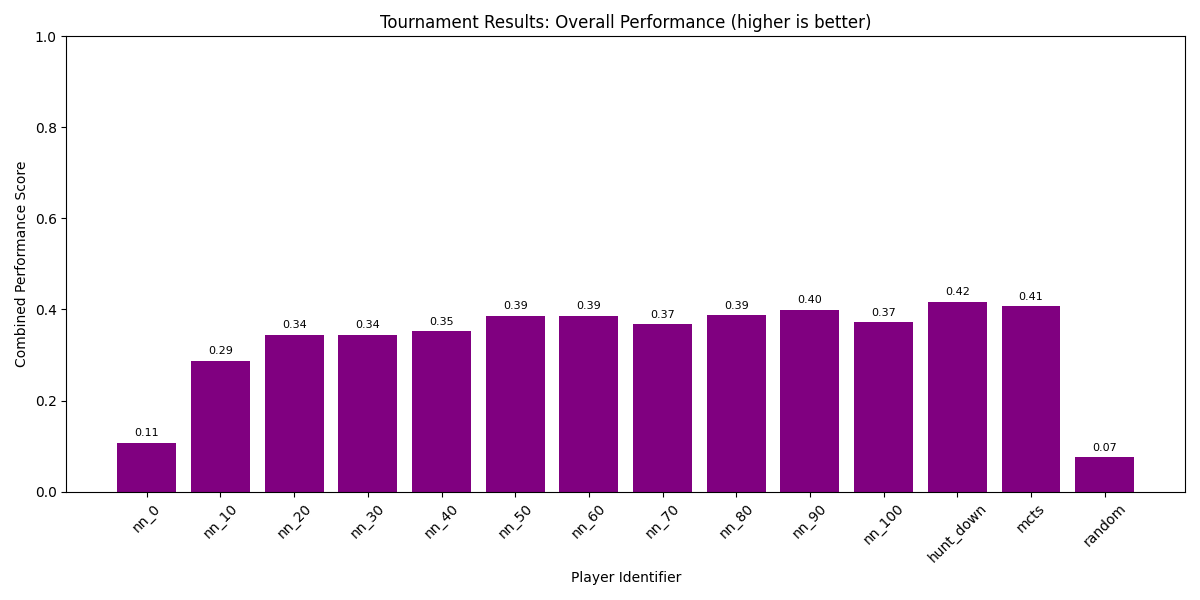
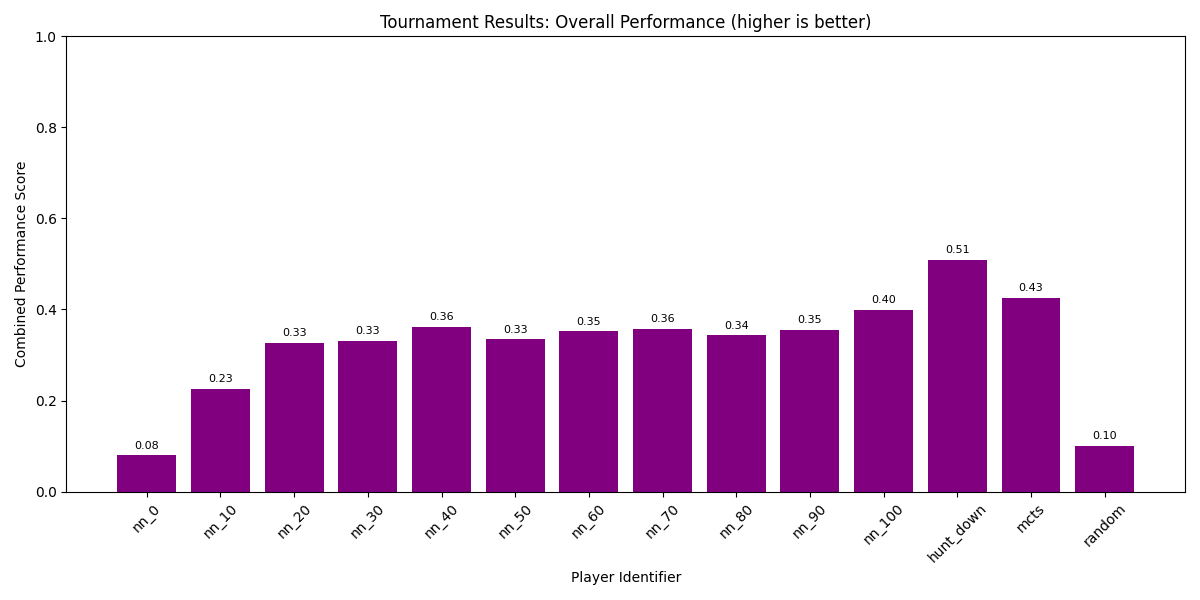
better better torunament

diff --git a/tournament.py b/tournament.py
@@ -198,18 +198,66 @@ class Tournament:
         last_hit_move = None  # The move number of the last hit
         moves_between_hits_list = []  # List to store the number of moves between consecutive hits
         
-        # For entropy calculation
-        shots_made = []  # Track all shots at the end of the game
-        start_shots = []  # Track the first 10 shots
+        # For entropy calculation of action distributions
+        start_distributions = []  # Track action distributions at the start of the game
+        all_distributions = []  # Track all action distributions during the game
         
         while not game_manager.is_terminal(current_state):
             total_moves += 1
-            move = search_agent.strategy.find_move(current_state, topp=True)
             
-            # Track shots for entropy calculation
-            shots_made.append(move)
-            if total_moves <= 10:  # Track first 10 shots for start entropy
-                start_shots.append(move)
+            # Make the move and get the probability distribution if available
+            if hasattr(search_agent.strategy, "find_move"):
+                # Check if this is a neural network strategy by inspecting the method signature
+                try:
+                    # For neural network agents that return both move and probabilities
+                    move_result = search_agent.strategy.find_move(current_state, topp=True)
+                    
+                    if isinstance(move_result, tuple) and len(move_result) == 2:
+                        # Unpack move and probabilities
+                        move, probabilities_np = move_result
+                        
+                        # Track distributions for entropy calculation
+                        all_distributions.append(probabilities_np)
+                        if total_moves <= 5:  # Track first 5 distributions for start entropy
+                            start_distributions.append(probabilities_np)
+                    else:
+                        # Agent just returned a move without probabilities
+                        move = move_result
+                        
+                        # Create a uniform distribution for entropy calculation
+                        legal_moves = game_manager.get_legal_moves(current_state)
+                        distribution = np.zeros(self.board_size * self.board_size)
+                        if legal_moves:
+                            distribution[legal_moves] = 1.0 / len(legal_moves)
+                        
+                        all_distributions.append(distribution)
+                        if total_moves <= 5:
+                            start_distributions.append(distribution)
+                except Exception as e:
+                    # Fallback in case of errors
+                    print(f"Error getting move: {e}")
+                    legal_moves = game_manager.get_legal_moves(current_state)
+                    move = np.random.choice(legal_moves) if legal_moves else 0
+                    
+                    # Default distribution
+                    distribution = np.zeros(self.board_size * self.board_size)
+                    if legal_moves:
+                        distribution[legal_moves] = 1.0 / len(legal_moves)
+                    all_distributions.append(distribution)
+                    if total_moves <= 5:
+                        start_distributions.append(distribution)
+            else:
+                # Fallback for agents without find_move method
+                legal_moves = game_manager.get_legal_moves(current_state)
+                move = np.random.choice(legal_moves) if legal_moves else 0
+                
+                # Default distribution
+                distribution = np.zeros(self.board_size * self.board_size)
+                if legal_moves:
+                    distribution[legal_moves] = 1.0 / len(legal_moves)
+                all_distributions.append(distribution)
+                if total_moves <= 5:
+                    start_distributions.append(distribution)
             
             # Check if move will be a hit before applying it
             is_hit = move in current_state.placing.indexes
@@ -257,24 +305,14 @@ class Tournament:
         # Calculate average moves between consecutive hits
         avg_moves_between_hits = sum(moves_between_hits_list) / len(moves_between_hits_list) if moves_between_hits_list else 0
         
-        # Calculate entropy metrics
-        # Convert shot indices to a board representation for entropy calculation
-        board_size_squared = self.board_size * self.board_size
-        board_shots = [0] * board_size_squared
-        for shot in shots_made:
-            board_shots[shot] = 1
-            
-        # Calculate entropy for the full game
-        end_entropy = self.calculate_entropy(board_shots)
+        # Calculate entropy metrics for action distributions
+        # Average entropy of all distributions
+        all_entropies = [self.calculate_entropy(dist) for dist in all_distributions]
+        end_entropy = np.mean(all_entropies) if all_entropies else 0
         
-        # Calculate entropy for the start of the game
-        if start_shots:
-            start_board = [0] * board_size_squared
-            for shot in start_shots:
-                start_board[shot] = 1
-            start_entropy = self.calculate_entropy(start_board)
-        else:
-            start_entropy = 0
+        # Average entropy of starting distributions
+        start_entropies = [self.calculate_entropy(dist) for dist in start_distributions]
+        start_entropy = np.mean(start_entropies) if start_entropies else 0
         
         return current_state.move_count, accuracy, avg_sink_efficiency, avg_moves_between_hits, start_entropy, end_entropy
 

diff --git a/strategies/search/nn_search.py b/strategies/search/nn_search.py
@@ -97,7 +97,7 @@ class NNSearch(nn.Module, Strategy):
         else:
             # During training, use pure random sampling
             move = np.random.choice(self.search_agent.board_size**2, p=probabilities_np)
-        return move
+        return move, probabilities_np
 
     def calculate_accuracy(self, predicted_values, target_values):
         predicted_probs = nn.functional.softmax(predicted_values, dim=1)
